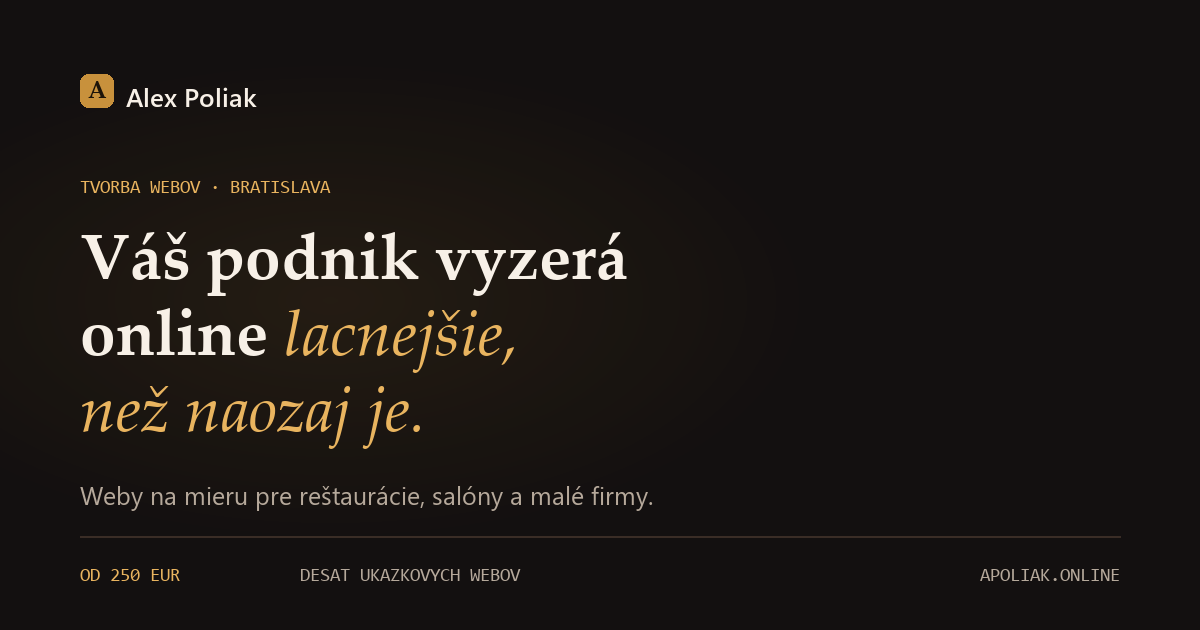
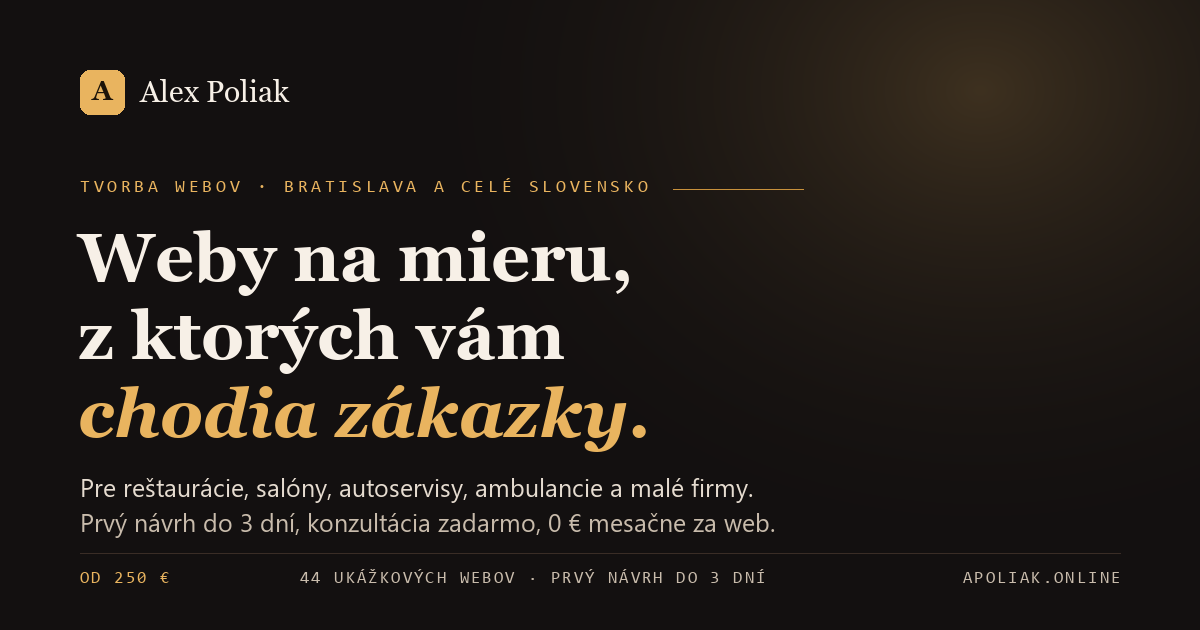
Price the packages against the market, split the e-shop out of Pro, refresh the share image
Each package now shows the usual market price for a comparable site next to its own, taken from public price lists of Slovak web makers in September 2026 (single page 350 to 600 EUR, business site 600 to 1 500 EUR, site with bookings 700 to 1 700 EUR, shop with a payment gateway 1 200 to 3 000 EUR). Pro keeps 890 EUR but covers up to twelve pages and bookings, orders or a calculator; the shop with cart and payments is priced separately from 1 190 EUR. Copy drops to 19 EUR per page. One FAQ entry explains why the prices are lower. The share image says 44 demos and carries the current headline; og:image gets width, height and alt. Sitemap dates now follow the last commit of each page.

diff --git a/index.html b/index.html
@@ -14,6 +14,9 @@
 <meta property="og:title" content="Weby na mieru pre malé podniky — prvý návrh do 3 dní, 0 € mesačne">
 <meta property="og:description" content="Web pre reštauráciu, salón, autoservis, ambulanciu či obec. Prvý návrh do 3 dní, konzultácia zadarmo, od 250 €. 44 funkčných ukážok si preklikáte priamo na stránke.">
 <meta property="og:image" content="https://apoliak.online/og-image.png">
+<meta property="og:image:width" content="1200">
+<meta property="og:image:height" content="630">
+<meta property="og:image:alt" content="Alex Poliak — weby na mieru, z ktorých vám chodia zákazky. Od 250 €, 44 ukážkových webov.">
 <meta name="twitter:card" content="summary_large_image">
 <meta name="twitter:title" content="Weby na mieru pre malé podniky — prvý návrh do 3 dní, 0 € mesačne">
 <meta name="twitter:description" content="Web pre reštauráciu, salón, autoservis, ambulanciu či obec. Prvý návrh do 3 dní, konzultácia zadarmo, od 250 €. 44 funkčných ukážok si preklikáte priamo na stránke.">
@@ -78,7 +81,15 @@
       "itemOffered": {
         "@type": "Service",
         "name": "Pro — web s funkciami na mieru",
-        "description": "Neobmedzené podstránky a texty v cene, rezervačný formulár alebo kalkulačka, e-shop s košíkom a napojením na platby, rozšírené SEO so štruktúrovanými údajmi, úpravy návrhu priebežne a zaškolenie na obsluhu objednávok."
+        "description": "Až dvanásť podstránok a texty v cene, rezervačný alebo objednávkový formulár, kalkulačka ceny, rozšírené SEO so štruktúrovanými údajmi, úpravy návrhu priebežne a zaškolenie na obsluhu objednávok."
+      }
+    },
+    {
+      "@type": "Offer", "name": "E-shop", "price": "1190", "priceCurrency": "EUR",
+      "itemOffered": {
+        "@type": "Service",
+        "name": "E-shop s košíkom a platbami",
+        "description": "Košík, platobná brána, správa produktov a objednávok, doprava a zaškolenie. Cena podľa počtu produktov a spôsobu platby."
       }
     }
   ]
@@ -234,7 +245,7 @@
     <div class="sec-head sec-head--split rv">
       <span class="sec-tag">Cenník</span>
       <h2>Tri balíčky, <em>jasné ceny</em></h2>
-      <p>Sumy sú východiskové, konečná cena sa počíta podľa rozsahu. Dostanete ju napísanú do 24 hodín od briefu a počas práce sa už nemení. Platí sa na dvakrát: polovica pri objednávke, polovica pri spustení.</p>
+      <p>Sumy sú východiskové, konečná cena sa počíta podľa rozsahu a počas práce sa už nemení. Pri každom balíčku je pre porovnanie bežná cena za podobný web podľa verejných cenníkov slovenských tvorcov webov (september 2026). Platí sa na dvakrát: polovica pri objednávke, polovica pri spustení.</p>
     </div>
 
     <div class="baliky rv">
@@ -242,6 +253,7 @@
       <article class="balik">
         <span class="balik-k">Starter</span>
         <p class="balik-cena"><span class="od">od</span>250 €</p>
+        <p class="balik-trh">bežne na trhu <b>350 až 600 €</b></p>
         <p class="balik-pre">Jedna stránka s ponukou, otváracími hodinami a kontaktom. Pre živnostníka alebo malý podnik, ktorý potrebuje vlastnú adresu na vizitku a do výkladu.</p>
         <ul class="balik-list">
           <li>1 až 3 sekcie, dizajn na mieru</li>
@@ -258,6 +270,7 @@
         <span class="balik-flag">Najčastejšia voľba</span>
         <span class="balik-k">Standard</span>
         <p class="balik-cena"><span class="od">od</span>490 €</p>
+        <p class="balik-trh">bežne na trhu <b>600 až 1 500 €</b></p>
         <p class="balik-pre">Plnohodnotný web podniku: galéria, ponuka alebo jedálny lístok a formulár, z ktorého vám príde dopyt na mail. Pre reštauráciu, salón, servis či ambulanciu.</p>
         <ul class="balik-list">
           <li>5 až 8 sekcií, dizajn na mieru</li>
@@ -273,25 +286,34 @@
       <article class="balik">
         <span class="balik-k">Pro</span>
         <p class="balik-cena"><span class="od">od</span>890 €</p>
-        <p class="balik-pre">Web s rezerváciami, objednávkami alebo e-shopom s platbami. Pre podnik, ktorý má prijímať objednávky aj vtedy, keď nemá kto dvíhať telefón.</p>
+        <p class="balik-trh">bežne na trhu <b>700 až 1 700 €</b></p>
+        <p class="balik-pre">Web s rezerváciami, objednávkami alebo kalkulačkou ceny. Pre podnik, ktorý má prijímať objednávky aj vtedy, keď nemá kto dvíhať telefón.</p>
         <ul class="balik-list">
-          <li>neobmedzený počet podstránok</li>
-          <li>rezervácie, kalkulačka ceny alebo košík s platbou</li>
+          <li>až 12 podstránok v cene, ďalšie po 35 €</li>
+          <li>rezervácie, objednávky alebo kalkulačka ceny</li>
           <li>texty na web v cene</li>
           <li>rozšírené SEO so štruktúrovanými údajmi</li>
           <li>úpravy priebežne, zaškolenie na obsluhu</li>
         </ul>
-        <span class="balik-cas">hotové za 3 až 6 týždňov</span>
+        <span class="balik-cas">hotové za 3 až 5 týždňov</span>
         <a class="btn btn-2 balik-btn" href="mailto:apoliak@apoliak.online?subject=Dopyt%20na%20web%20%E2%80%93%20Pro&body=Dobr%C3%BD%20de%C5%88%2C%0A%0A%C4%8Do%20rob%C3%ADm%20a%20kde%3A%20%0AWeb%20u%C5%BE%20m%C3%A1m%3A%20%0A%C4%8Do%20od%20webu%20%C4%8Dak%C3%A1m%3A%20%0AP%C3%A1%C4%8Di%20sa%20mi%20uk%C3%A1%C5%BEka%3A%20%0A%0AKontakt%20na%20m%C5%88a%3A%20%0A">Chcem Pro</a>
       </article>
 
+    </div>
+
+    <div class="eshop rv">
+      <div class="eshop-txt">
+        <span class="balik-k">E-shop s košíkom a platbami</span>
+        <p><b>od 1 190 €</b> podľa počtu produktov a spôsobu platby. Košík, platobná brána, správa produktov a objednávok, doprava, zaškolenie. Bežne na trhu s platobnou bránou 1 200 až 3 000 €.</p>
+      </div>
+      <a class="btn btn-2 eshop-btn" href="mailto:apoliak@apoliak.online?subject=Dopyt%20na%20web%20%E2%80%93%20E-shop&body=Dobr%C3%BD%20de%C5%88%2C%0A%0A%C4%8Do%20pred%C3%A1vam%3A%20%0AKo%C4%BEko%20produktov%3A%20%0AWeb%20u%C5%BE%20m%C3%A1m%3A%20%0AP%C3%A1%C4%8Di%20sa%20mi%20uk%C3%A1%C5%BEka%3A%20%0A%0AKontakt%20na%20m%C5%88a%3A%20%0A">Chcem e-shop</a>
     </div>
 
     <div class="doplnky rv">
       <p class="extras-t">Doplnky</p>
       <div class="extras">
         <span class="x"><span class="n">Ďalšia podstránka</span><span class="d" aria-hidden="true"></span><span class="p">35 €</span></span>
-        <span class="x"><span class="n">Texty na jednu stránku</span><span class="d" aria-hidden="true"></span><span class="p">25 €</span></span>
+        <span class="x"><span class="n">Texty na jednu stránku</span><span class="d" aria-hidden="true"></span><span class="p">19 €</span></span>
         <span class="x"><span class="n">Údržba a drobné úpravy</span><span class="d" aria-hidden="true"></span><span class="p">od 9 € / mesiac</span></span>
         <span class="x"><span class="n">Rýchla oprava do 48 hodín</span><span class="d" aria-hidden="true"></span><span class="p">35 €</span></span>
       </div>
@@ -364,15 +386,19 @@
       </details>
       <details class="qa">
         <summary>Dokedy budem mať web hotový?</summary>
-        <p>Prvý návrh do troch dní od briefu. Starter býva hotový do piatich pracovných dní, Standard do desiatich, Pro zvyčajne tri až šesť týždňov. Termín potvrdím v ponuke.</p>
+        <p>Prvý návrh do troch dní od briefu. Starter býva hotový do piatich pracovných dní, Standard do desiatich, Pro tri až päť týždňov, e-shop podľa rozsahu. Termín potvrdím v ponuke.</p>
       </details>
       <details class="qa">
         <summary>Musím dodať texty a fotky?</summary>
-        <p>Nemusíte. Ak texty máte, použijem ich, ak nie, napíšem ich ja. V balíčku Pro sú v cene, inak sú doplnok 25 € za stránku. Ak nemáte fotky, dizajn postavím tak, aby ich nepotreboval.</p>
+        <p>Nemusíte. Ak texty máte, použijem ich, ak nie, napíšem ich ja. V balíčku Pro sú v cene, inak sú doplnok 19 € za stránku. Ak nemáte fotky, dizajn postavím tak, aby ich nepotreboval.</p>
       </details>
       <details class="qa">
         <summary>Ako sa platí?</summary>
         <p>Polovica pri objednávke, druhá polovica pri spustení webu. Cenu máte napísanú v ponuke pred začiatkom práce. Za konzultáciu ani za cenovú ponuku neplatíte nič.</p>
+      </details>
+      <details class="qa">
+        <summary>Prečo ste lacnejší ako väčšina ponúk?</summary>
+        <p>Robím všetko sám, takže neplatíte réžiu agentúry. Web píšem ručne bez platených šablón a pluginov, preto v ňom nie sú ani mesačné licencie. Porovnanie s bežnými cenami máte pri každom balíčku v cenníku.</p>
       </details>
       <details class="qa">
         <summary>Komu patrí web a doména?</summary>

diff --git a/styles.css b/styles.css
@@ -774,6 +774,21 @@ html:not(.js) #hs-iframe{display:none}
 }
 .balik-cas{display:block;margin-top:18px;font-family:var(--mono);font-size:.7rem;letter-spacing:.14em;text-transform:uppercase;color:var(--mut)}
 .balik-btn{margin-top:16px;justify-content:center;text-align:center}
+/* porovnanie s bežnou cenou na trhu — z verejných cenníkov slovenských tvorcov webov, sept. 2026 */
+.balik-trh{margin-top:8px;font-family:var(--mono);font-size:.68rem;letter-spacing:.1em;text-transform:uppercase;color:var(--mut)}
+.balik-trh b{color:var(--ink-2);font-weight:400}
+/* e-shop stojí mimo Pro — pri 890 € by bol košík s platbami zadarmo */
+.eshop{
+  margin-top:clamp(16px,2vw,24px);display:flex;flex-wrap:wrap;gap:16px 28px;align-items:center;justify-content:space-between;
+  border:1px solid var(--line);border-left:3px solid var(--brass);
+  background:linear-gradient(100deg,rgba(233,180,95,.08),transparent 60%),var(--panel);
+  padding:clamp(18px,2.4vw,26px) clamp(20px,2.6vw,32px);
+}
+.eshop-txt{flex:1 1 420px;min-width:0}
+.eshop-txt p{margin-top:8px;color:var(--ink-2);font-size:.95rem;line-height:1.6;max-width:72ch}
+.eshop-txt p b{color:var(--ink);font-family:var(--serif);font-size:1.3rem;font-weight:700;margin-right:2px}
+.eshop-btn{flex:none}
+@media (max-width:639px){.eshop-btn{flex:1 1 100%;justify-content:center}}
 .doplnky{margin-top:clamp(28px,3.4vw,44px);padding-top:clamp(22px,2.6vw,30px);border-top:1px solid var(--line-soft)}
 .doplnky .extras-t{margin-top:0}
 .doplnky-note{margin-top:18px;color:var(--mut);font-size:.9rem;max-width:80ch}

diff --git a/README.en.md b/README.en.md
@@ -195,7 +195,7 @@ Content lives directly in the HTML:
 | -           | Hero           | Headline and CTAs on the left, a live demo with six industry switches on the right, four facts below |
 | -           | Marquee        | Business segments the sites are built for                       |
 | `#vyhody`   | Benefits and services | Six reasons on the left, three kinds of jobs on the right (`#sluzby`), divided by a rule |
-| `#cennik`   | Pricing        | Starter, Standard and Pro as three cards side by side, add-ons below |
+| `#cennik`   | Pricing        | Starter, Standard and Pro as three cards with the usual market price for comparison, the e-shop priced separately, add-ons below |
 | `#postup`   | Process        | Steps from first contact to going live                          |
 | `#otazky`   | FAQ            | Native `<details>` questions, working without JavaScript        |
 | `#kontakt`  | Contact        | A short "about me" in the heading and one card: address, phone, SMS, what to write, what the free consultation covers, support and GitHub |

diff --git a/README.md b/README.md
@@ -219,7 +219,7 @@ Obsahové veci sa menia priamo v HTML:
 | -           | Hero            | Nadpis a CTA vľavo, vpravo živá ukážka s prepínaním šiestich odvetví, pod tým štyri fakty |
 | -           | Bežiaci pás     | Segmenty podnikov, pre ktoré weby robím                             |
 | `#vyhody`   | Výhody a služby | Vľavo šesť dôvodov, vpravo tri druhy zákaziek (`#sluzby`), predelené čiarou |
-| `#cennik`   | Cenník          | Tri karty Starter, Standard, Pro vedľa seba, pod nimi doplnky        |
+| `#cennik`   | Cenník          | Tri karty Starter, Standard, Pro s bežnou cenou na trhu pre porovnanie, e-shop zvlášť, pod nimi doplnky |
 | `#postup`   | Postup          | Kroky spolupráce od prvého kontaktu po spustenie                    |
 | `#otazky`   | Časté otázky    | Natívne `<details>` otázky, fungujú aj bez JavaScriptu              |
 | `#kontakt`  | Kontakt         | Krátke „O mne" v hlavičke a jedna karta: adresa, telefón, SMS, čo napísať, čo prinesie konzultácia, podpora a GitHub |
